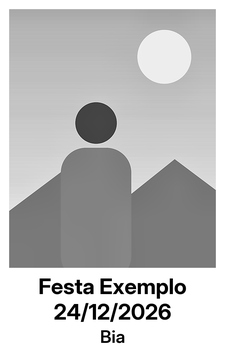
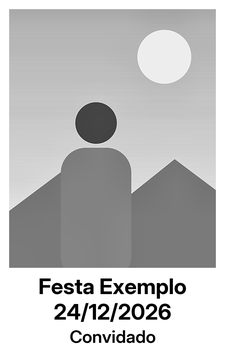
Exemplos: convidado fictício passa a se chamar "Convidado"

Changed region(s): [[0.3111, 0.9167, 0.7156, 0.9778]]

diff --git a/tools/preview.py b/tools/preview.py
@@ -28,7 +28,7 @@ from PIL import Image, ImageDraw, ImageFont  # noqa: E402
 
 from app.imaging import load_image  # noqa: E402
 from app.printers import load_profile  # noqa: E402
-from app.renderer import FONTS_DIR, RenderContext, placeholder_photo, render_label  # noqa: E402
+from app.renderer import FONTS_DIR, RenderContext, paper_preview, placeholder_photo, render_label  # noqa: E402
 from app.templates import TemplateError, list_templates, load_template  # noqa: E402
 
 OUT = ROOT / "previews"
@@ -54,7 +54,7 @@ def context_for(tpl, date_format: str) -> RenderContext:
     return RenderContext(
         event=str(ex.get("event", "Nome do Evento")),
         date=str(ex.get("date", SAMPLE_DATE)),
-        guest_name=str(ex.get("guest", "Bia")),
+        guest_name=str(ex.get("guest", "Convidado")),
         guest_enabled=True,
         date_format=date_format,
         placeholder_logo=True,
@@ -111,18 +111,22 @@ def main(argv: list[str] | None = None) -> int:
             continue
         ctx = context_for(tpl, args.lang_date)
         print(f"• {tpl.name} ({name})")
-        for prof_id, size, paper in combos:
+        tpl_combos = combos
+        if tpl.label_mm and combos is DEFAULT_SET:  # modelo feito para um tamanho só
+            tpl_combos = [("b2_pro", tpl.label_mm, "photo"), ("b2_pro", tpl.label_mm, "regular")]
+        for prof_id, size, paper in tpl_combos:
             profile = profiles.setdefault(prof_id, load_profile(prof_id))
             res = render_label(tpl, photo, ctx, size, profile, paper)
             tag = f"{size[0]:g}x{size[1]:g}"
             path = OUT / f"{name}_{tag}_{paper}_{prof_id}.png"
-            res.image.save(path)
+            shown = paper_preview(res.image, tpl)
+            shown.save(path)
             note = "" if not res.warnings else "  ⚠ " + "; ".join(res.warnings)
             print(f"    {tag} {paper:<7} {prof_id:<7} -> {path.relative_to(ROOT)}{note}")
-            if (prof_id, size, paper) == combos[0]:
-                sheet_items.append((tpl.name, res.image))
+            if (prof_id, size, paper) == tpl_combos[0]:
+                sheet_items.append((tpl.name, shown))
                 if not args.photo and combos is DEFAULT_SET:
-                    thumb = res.image.convert("L")
+                    thumb = shown.copy()
                     thumb.thumbnail((360, 360), Image.Resampling.LANCZOS)
                     thumb.save(tpl.preview_path, optimize=True)
 

diff --git a/tools/make_qr.py b/tools/make_qr.py
@@ -42,7 +42,7 @@ from reportlab.pdfgen import canvas as pdfcanvas  # noqa: E402
 from app import config as C  # noqa: E402
 from app.i18n import load_locale  # noqa: E402
 from app.printers import load_profile  # noqa: E402
-from app.renderer import FONTS_DIR, RenderContext, placeholder_photo, render_label  # noqa: E402
+from app.renderer import FONTS_DIR, RenderContext, paper_preview, placeholder_photo, render_label  # noqa: E402
 from app.templates import load_template  # noqa: E402
 
 
@@ -123,7 +123,7 @@ def sample_label(cfg: dict) -> Image.Image:
     ctx = RenderContext(
         event=cfg["event"].get("name", ""),
         date=str(cfg["event"].get("date", "")),
-        guest_name="Bia" if cfg.get("guest_name") else "",
+        guest_name="Convidado" if cfg.get("guest_name") else "",
         texts={k: str(v) for k, v in (cfg.get("texts") or {}).items()},
         guest_enabled=bool(cfg.get("guest_name")),
         date_format=load_locale(lang).get("date_format", "%d/%m/%Y"),
@@ -131,7 +131,7 @@ def sample_label(cfg: dict) -> Image.Image:
     )
     label_mm = (float(cfg["label"]["width_mm"]), float(cfg["label"]["height_mm"]))
     res = render_label(template, placeholder_photo((1200, 1500)), ctx, label_mm, profile, cfg.get("paper", "photo"))
-    return res.image.convert("RGB")
+    return paper_preview(res.image, template)
 
 
 def draw_plate(path: Path, cfg: dict, url: str, wifi: tuple[str, str, str] | None) -> None:

diff --git a/docs/CRIANDO-MODELOS.md b/docs/CRIANDO-MODELOS.md
@@ -86,7 +86,7 @@ logo:                          # espaço para o logo do organizador (opcional)
 
 example:                       # textos de exemplo para as prévias (sem dados reais!)
   event: Turma 2026
-  guest: Bia
+  guest: Convidado
 ```
 
 ## Variáveis
@@ -147,6 +147,28 @@ Os enfeites nunca saem da etiqueta: se a posição ficar para fora, eles são em
 ### `frame` e `logo`
 
 Veja o exemplo completo acima. O logo é enviado pelo organizador e convertido para preto e branco automaticamente.
+
+### Etiquetas com moldura já impressa
+
+Alguns rolos já vêm com moldura colorida e uma janela branca para a foto (ex.: 54 × 66 mm). Nesse caso, diga ao Niimparty onde fica cada coisa, em mm, a partir do canto de cima à esquerda, com a etiqueta em pé. O modelo `moldura-colorida-54x66` é um exemplo pronto.
+
+```yaml
+label_mm: [54, 66]                    # o modelo só serve para este tamanho
+preprinted:
+  window_mm: [5.8, 9.0, 42.4, 42.4]   # janela branca: [x, y, largura, altura]
+  preview_colors: ["#F4C7C9"]         # cor do papel, só para a prévia na tela
+photo:
+  aspect: "1:1"
+  box_mm: [6.4, 9.6, 41.2, 41.2]      # onde a foto é impressa
+text_box_mm: [5, 52.4, 44, 12.6]      # onde vão os textos
+max_rows: 2                           # da 2ª linha em diante, os textos se juntam com "·"
+```
+
+- Meça o seu rolo com uma régua: as medidas dos anúncios são aproximadas.
+- Deixe a foto uns 0,5 mm para dentro da janela, porque o papel pode andar um pouco.
+- A moldura colorida nunca é impressa. A cor aparece só na prévia do celular e na placa.
+- O preto sai bem sobre cores claras, então dá para imprimir texto na faixa colorida.
+- Se a etiqueta for mais larga que a cabeça de impressão (48 mm na B2 Pro), só a parte do meio recebe tinta, e o `validate` avisa se a foto ou o texto passarem disso.
 
 ## Fontes
 
